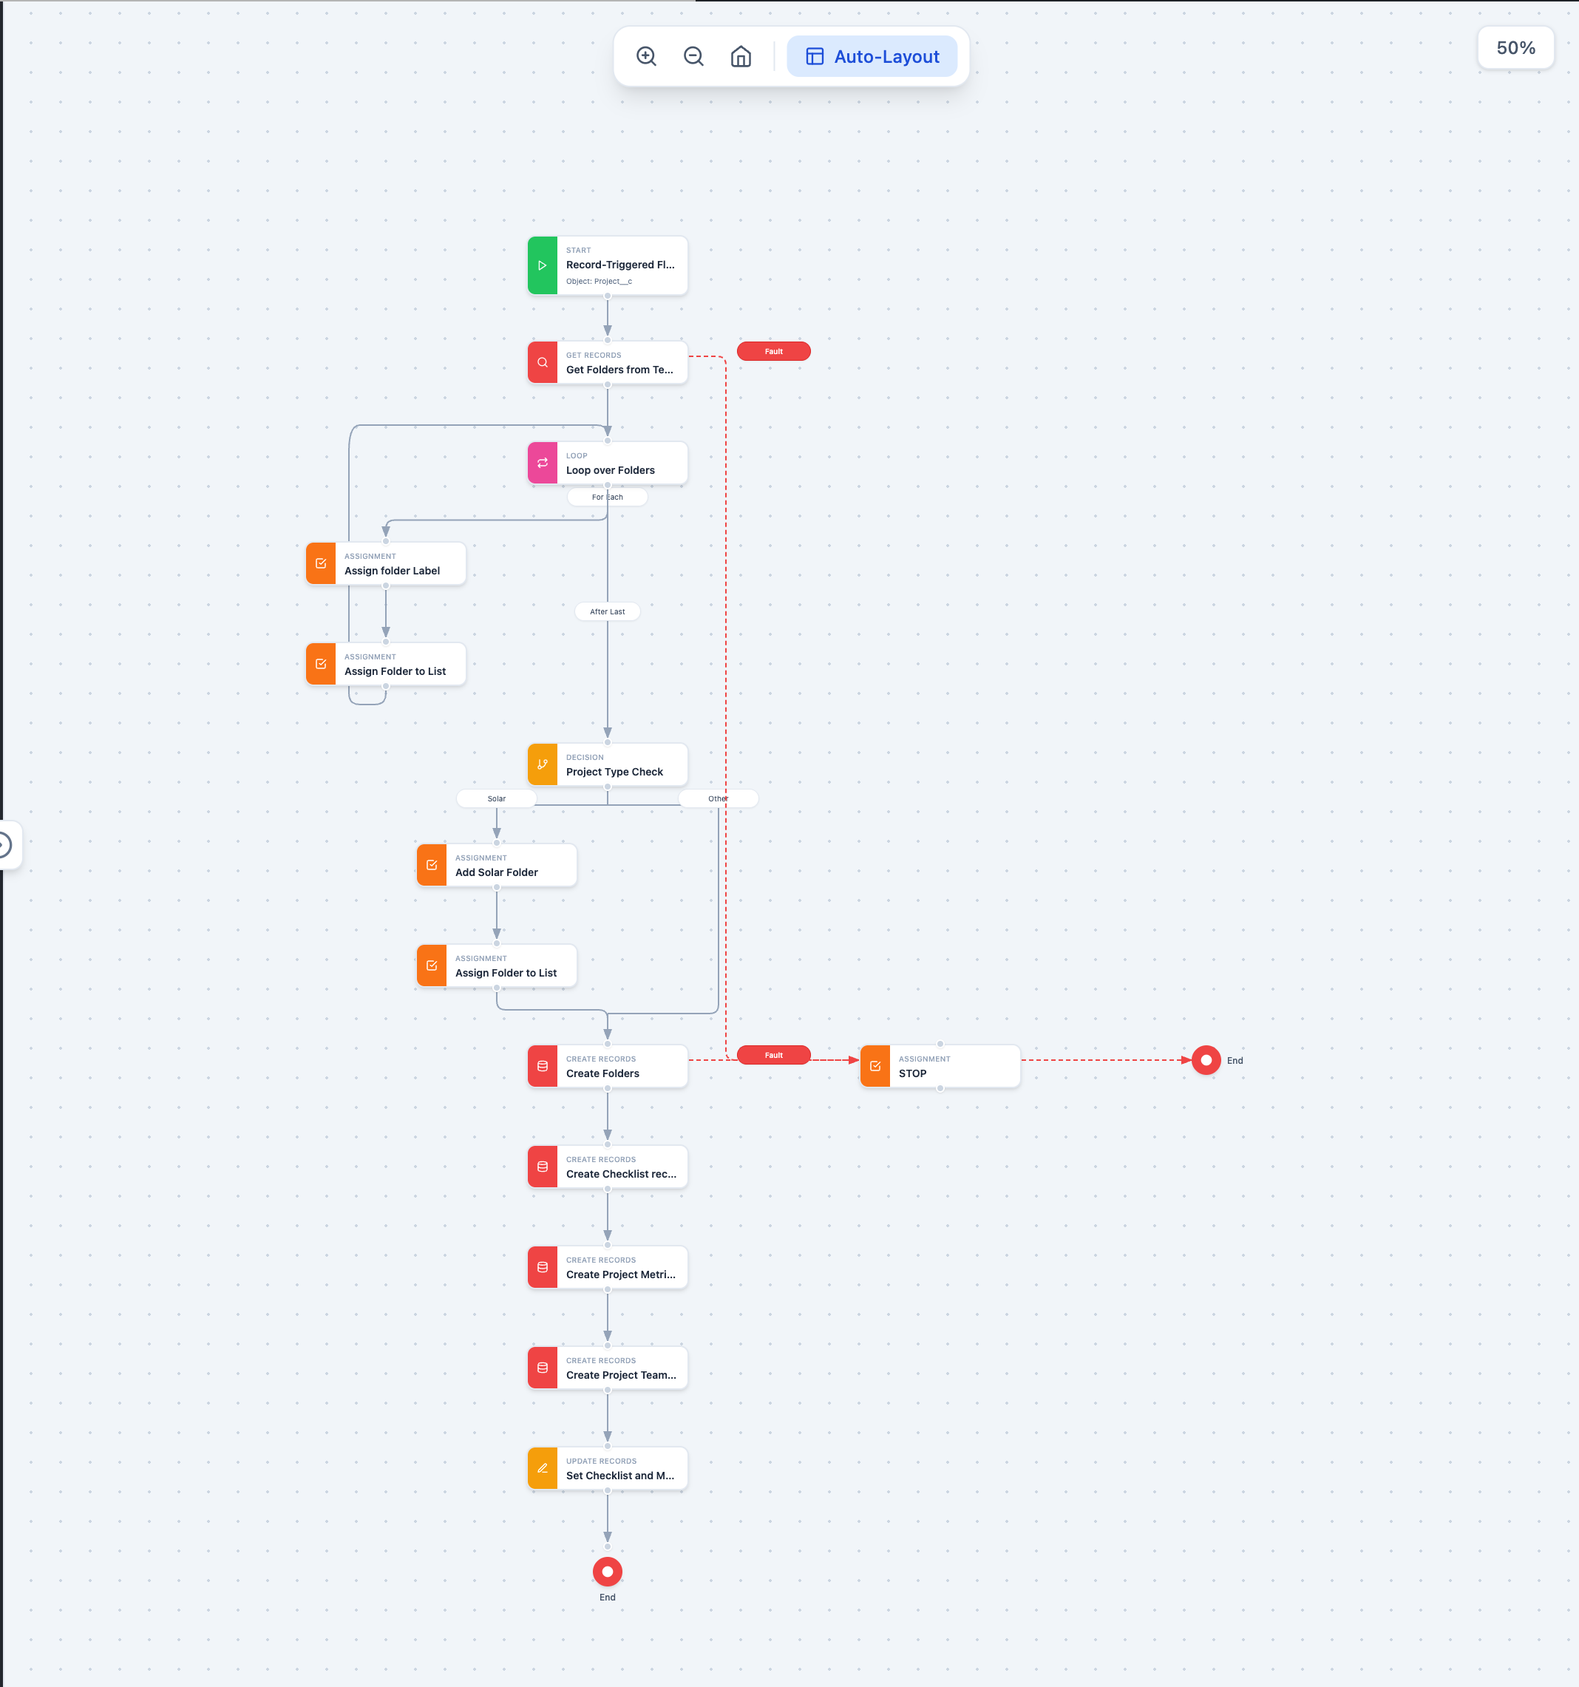
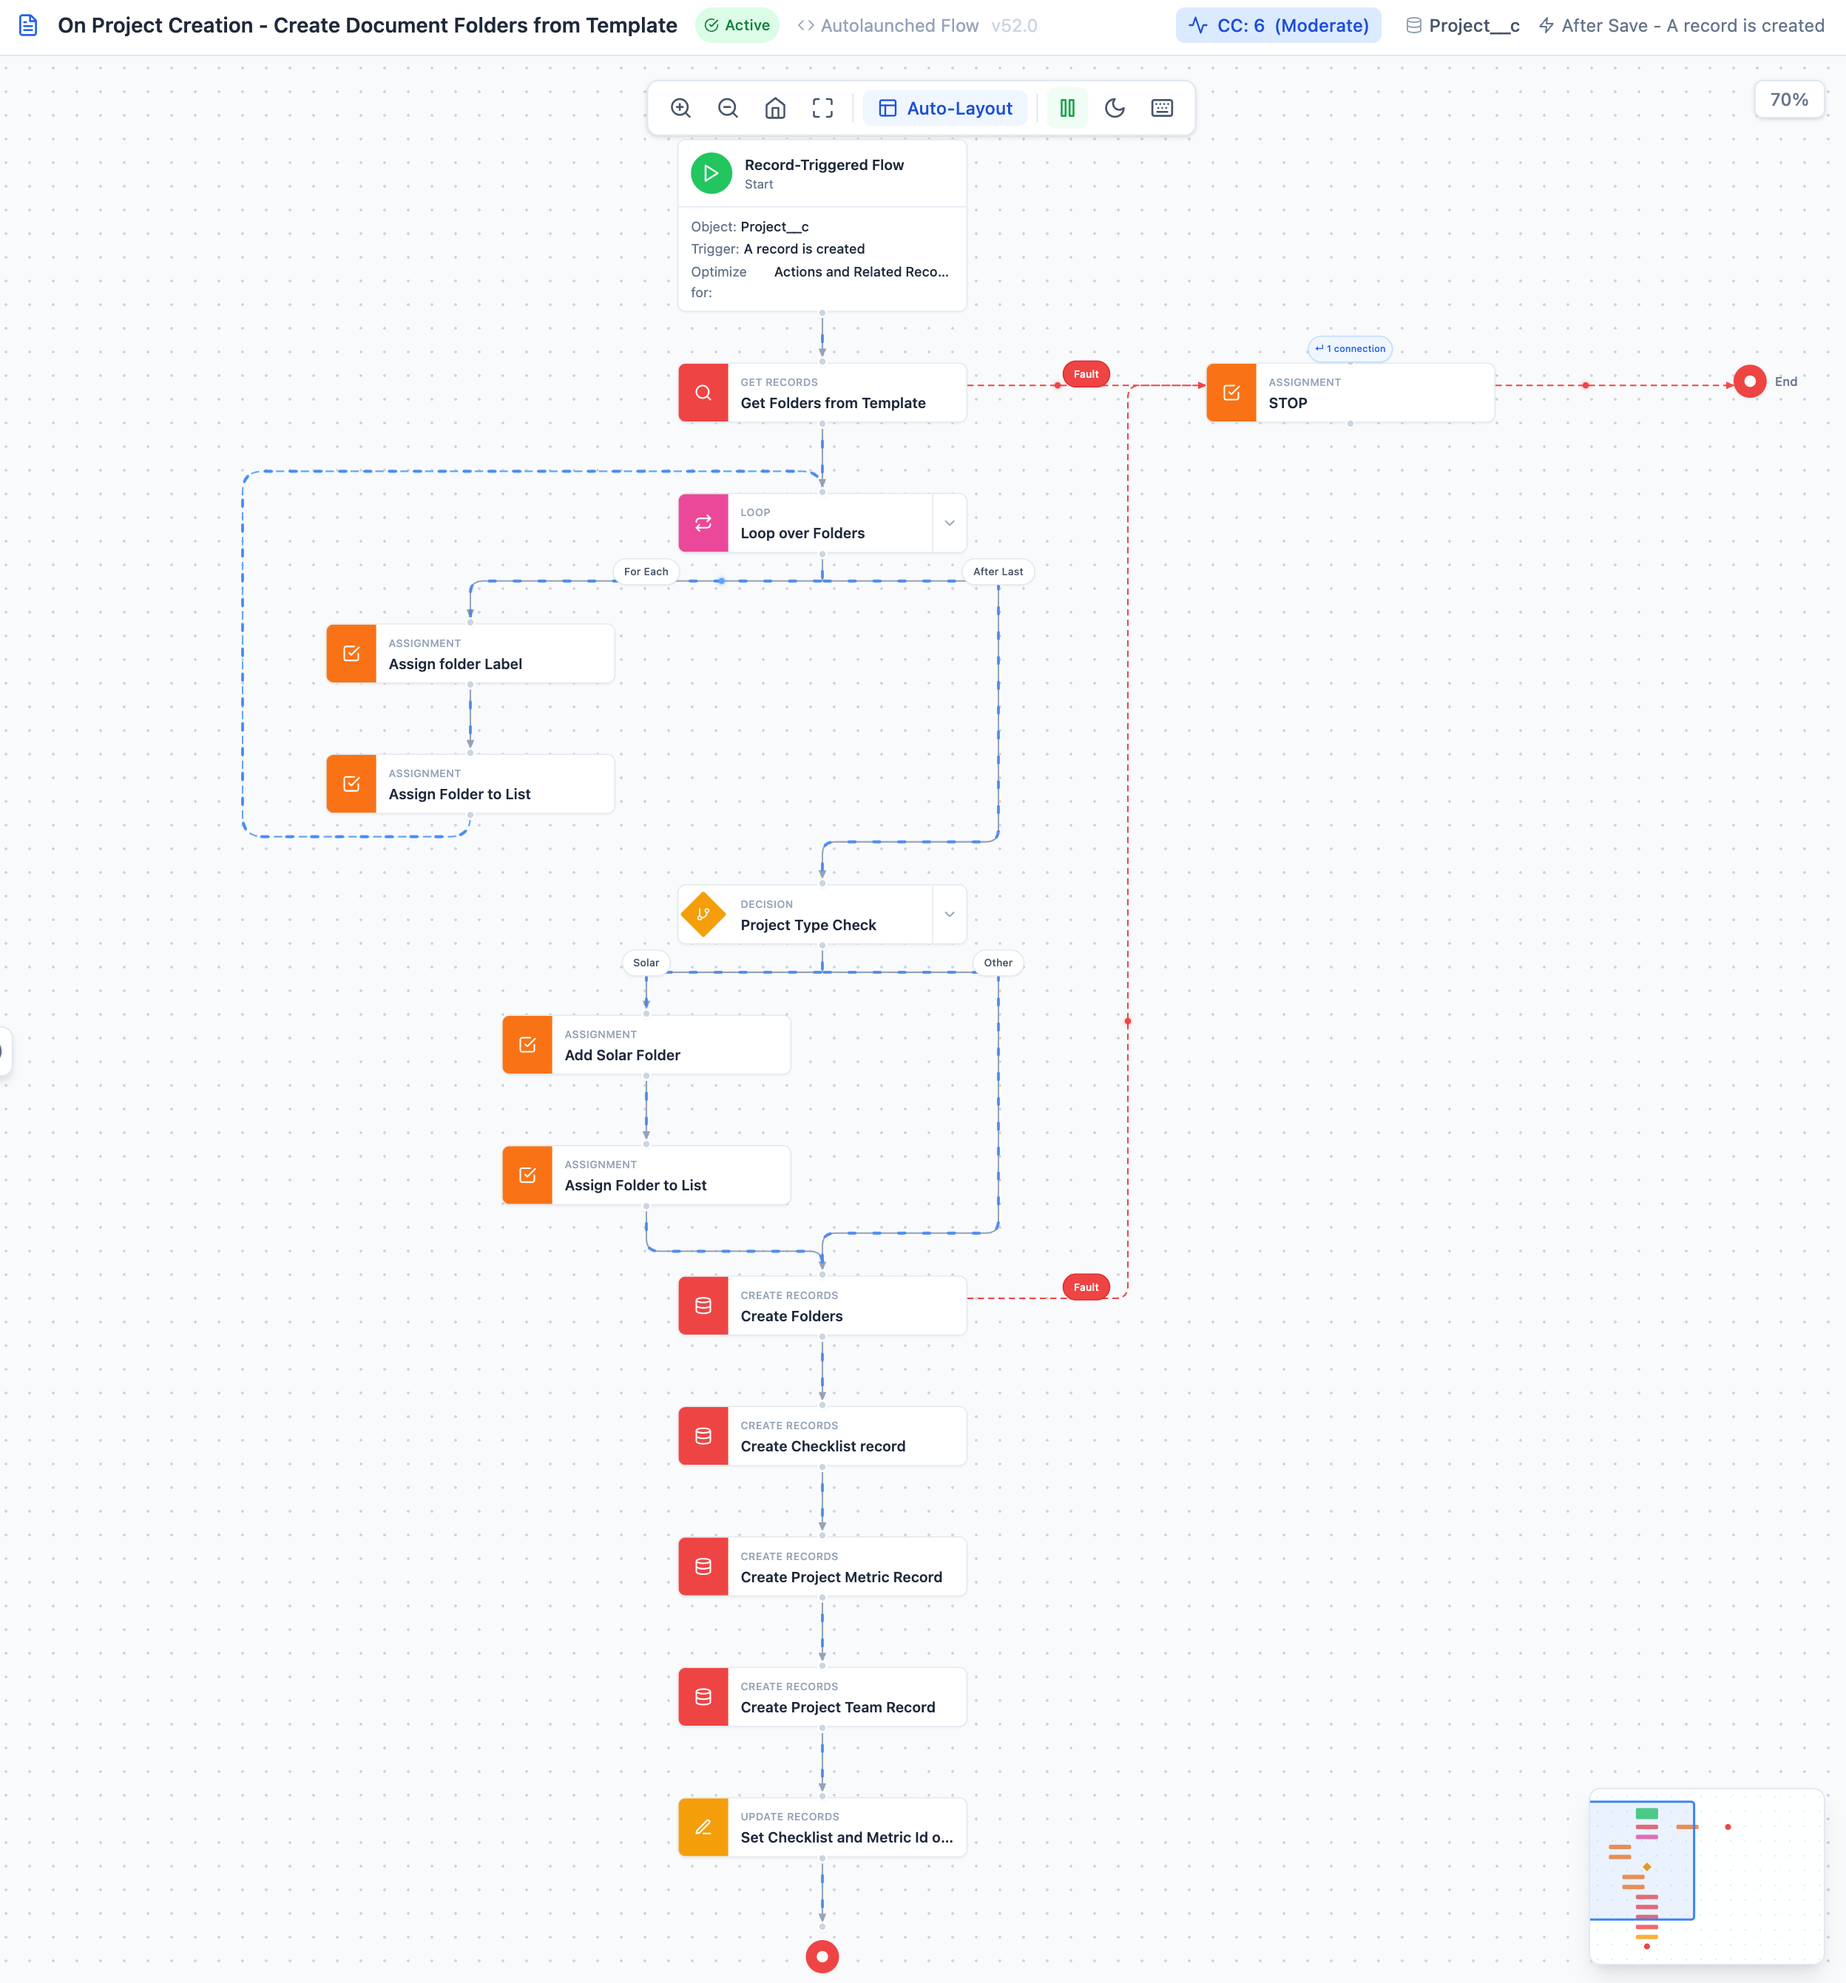
updated release

diff --git a/webview-ui/build/assets/index.js b/webview-ui/build/assets/index.js
@@ -325,7 +325,7 @@ Error generating stack: `+o.message+`
             Q ${t.x} ${a}, ${t.x+i*l} ${a}
             L ${n.x-i*l} ${a}
             Q ${n.x} ${a}, ${n.x} ${a+l}
-            L ${n.x} ${n.y}`}static createFaultPath(t,n,r={}){const{cornerRadius:l=Wr,faultIndex:o=0}=r;if(Math.abs(n.y-t.y)<15)return this.createStraightPath(t,n);const s=Jh,u=o*25,i=40,a=n.x-t.x,d=s+u;let p=d;if(a>d+i){const y=a-d-i,x=d+Math.min(y*.75,200);p=Math.min(x,a-i)}const f=Math.max(t.x+s*.5,Math.min(t.x+p,n.x-i));return n.y>t.y?`M ${t.x} ${t.y} 
+            L ${n.x} ${n.y}`}static createFaultPath(t,n,r={}){const{cornerRadius:l=Wr,faultIndex:o=0}=r;if(Math.abs(n.y-t.y)<25)return this.createStraightPath(t,n);const s=Jh,u=o*25,i=40,a=n.x-t.x,d=s+u;let p=d;if(a>d+i){const y=a-d-i,x=d+Math.min(y*.75,200);p=Math.min(x,a-i)}const f=Math.max(t.x+s*.5,Math.min(t.x+p,n.x-i));return n.y>t.y?`M ${t.x} ${t.y} 
               L ${f-l} ${t.y}
               Q ${f} ${t.y}, ${f} ${t.y+l}
               L ${f} ${n.y-l}

diff --git a/webview-ui/src/services/ConnectorPathService.ts b/webview-ui/src/services/ConnectorPathService.ts
@@ -126,8 +126,8 @@ export class ConnectorPathService {
   ): string {
     const { cornerRadius = DEFAULT_CORNER_RADIUS, faultIndex = 0 } = options;
 
-    // Check if nearly horizontal
-    if (Math.abs(tgt.y - src.y) < 15) {
+    // Check if nearly horizontal (allow small offsets to stay straight)
+    if (Math.abs(tgt.y - src.y) < 25) {
       return this.createStraightPath(src, tgt);
     }
 

diff --git a/CHANGELOG.md b/CHANGELOG.md
@@ -5,6 +5,14 @@ All notable changes to the SF Flow Visualizer extension will be documented in th
 The format is based on [Keep a Changelog](https://keepachangelog.com/en/1.0.0/),
 and this project adheres to [Semantic Versioning](https://semver.org/spec/v2.0.0.html).
 
+## [1.1.2] - 2025-12-01
+
+### Fixed
+
+- Loop connectors now keep their animated bead perfectly aligned with the branch entry so For-Each branches feel anchored instead of drifting mid-air
+- Branch line routing for loop bodies now forces a horizontal-first drop, eliminating the jagged kink that previously appeared before the connector turned downward
+- Fault connectors stay horizontal longer before bending, keeping short-hop fault paths perfectly straight and easier to scan
+
 ## [1.1.1] - 2025-11-30
 
 ### Improved
@@ -54,6 +62,7 @@ and this project adheres to [Semantic Versioning](https://semver.org/spec/v2.0.0
 - Multiple access points (editor title, context menu, command palette)
 - Configuration settings for auto-layout and theme preferences
 
+[1.1.2]: https://github.com/Avinava/vscode-sf-flow-visualiser/compare/v1.1.1...v1.1.2
 [1.1.1]: https://github.com/Avinava/vscode-sf-flow-visualiser/compare/v1.1.0...v1.1.1
 [1.1.0]: https://github.com/Avinava/vscode-sf-flow-visualiser/compare/v1.0.0...v1.1.0
 [1.0.0]: https://github.com/Avinava/vscode-sf-flow-visualiser/releases/tag/v1.0.0

diff --git a/README.md b/README.md
@@ -55,6 +55,12 @@ Working with Salesforce Flows in XML format can be challenging. This extension b
 - 🎭 **Theme Support** - Light, dark, and auto themes to match your VS Code setup
 - 💾 **Persistent Preferences** - Theme and animation settings are remembered across sessions
 
+### What's New in 1.1.2
+
+- Loop connectors keep their animated “flow bead” perfectly aligned with For-Each branch entries for a grounded feel
+- Loop branch lines now route horizontally before dropping, removing the mid-air kink on branch transitions
+- Fault connectors stay horizontal longer, so short fault hops render as crisp straight shots off the right edge of a node
+
 ## 📋 Supported Flow Elements
 
 | Element | Type | Description |
